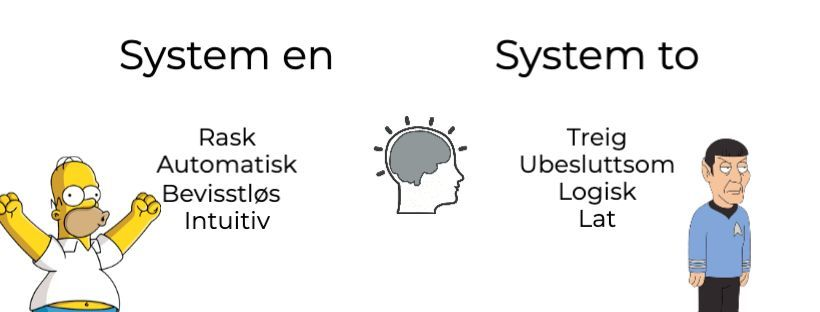
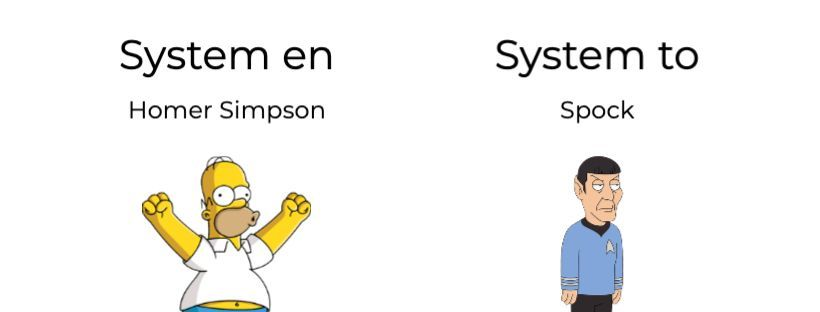
updated post

diff --git a/content/blog/menneskehjernen/index.md b/content/blog/menneskehjernen/index.md
@@ -26,7 +26,7 @@ Dette er også hvordan hjernen vår fungerer.
 
 ## To systemer
 
-I boken "Thinking fast and slow" definerer nobelprisvinner Daniel Kahneman hjernens to systemer som system en og system to.
+I boken "Thinking fast and slow" definerer nobelprisvinner Daniel Kahneman hjernens to systemer som:
 
 **System en (underbevisstheten)**
 Dette systemet reagerer veldig raskt, og kan behandle enorme mengder informasjon på en gang. 
@@ -35,8 +35,6 @@ Dette systemet reagerer veldig raskt, og kan behandle enorme mengder informasjon
 Den er mye tregere, og kan håndtere veldig lite informasjon på en gang. 
 
 Eller sagt på en annen måte: system en er assistenten, system to er toppsjefen.  
-
-![System en er som Homer Simpsons, system to er som Mr. Spock](../menneskehjernen/to_systemer.jpeg)
 
 Så hvorfor er dette relevant til markedsføring? 
 
@@ -47,6 +45,10 @@ Og det som gjør det enda verre? Assistenten snakker ikke samme språk som topps
 Dette er grunnen til at folk sier de vil kjøpe ditt produkt, bare for å si nei takk når du gir de muligheten. 
 
 Dette er også grunnen til at de ikke klarer å forklare hvorfor når du spør om de var dritings forrige gang dere snakket sammen.
+
+![System en er som Homer Simpsons, system to er som Mr. Spock](../menneskehjernen/to_systemer.jpeg)
+
+*99% av våre beslutniger tas av Homer Simpson, bare 1% tas av Spoc*k
 
 ## Hjernen og markedsføring
 
